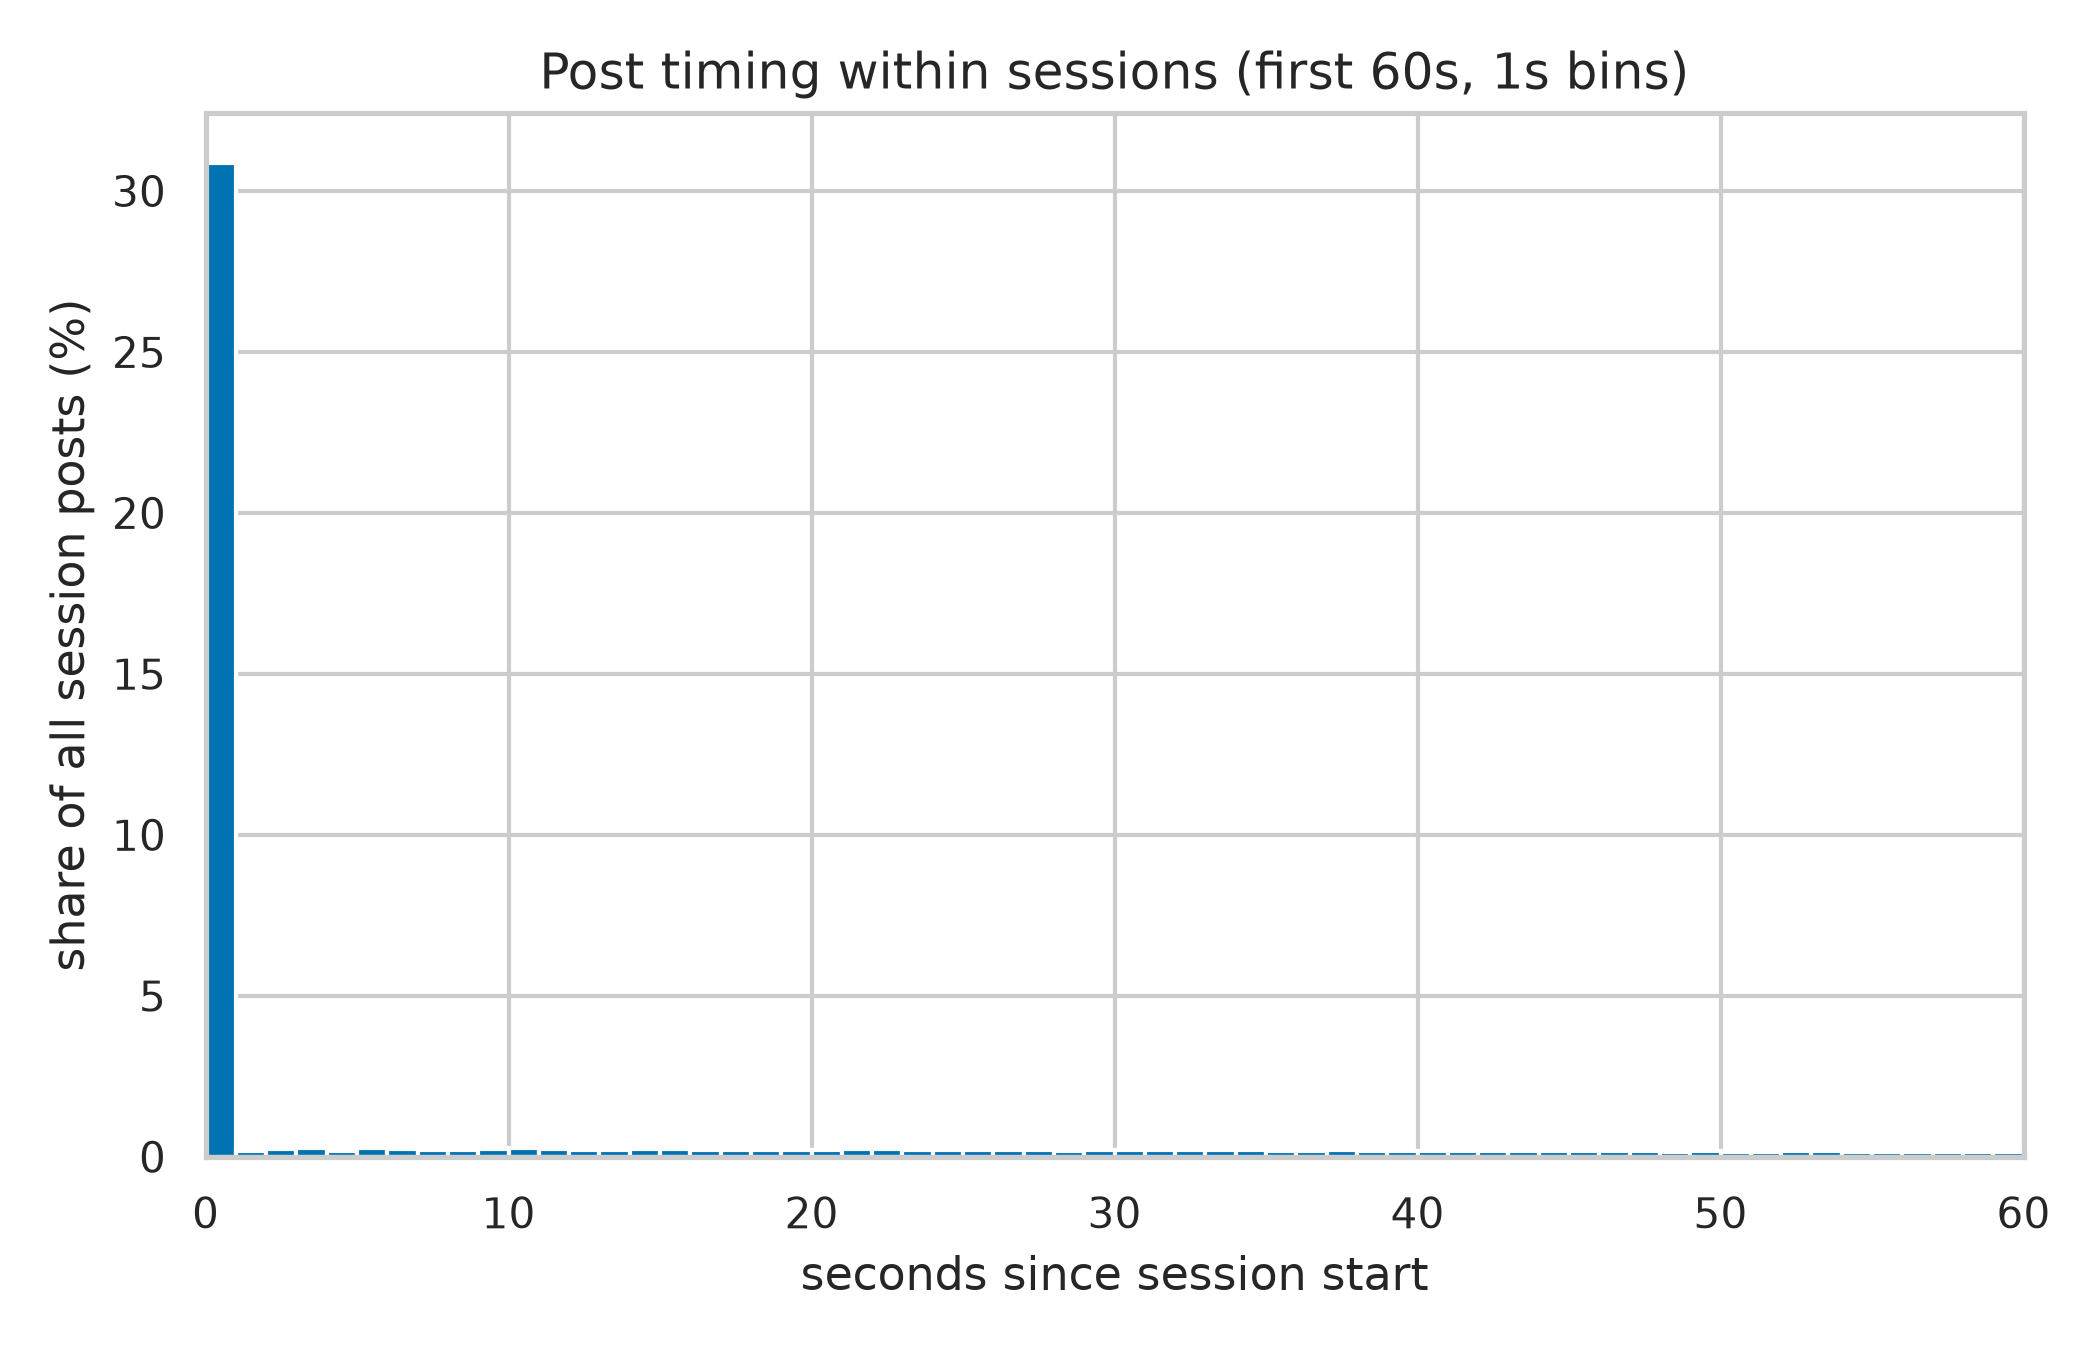
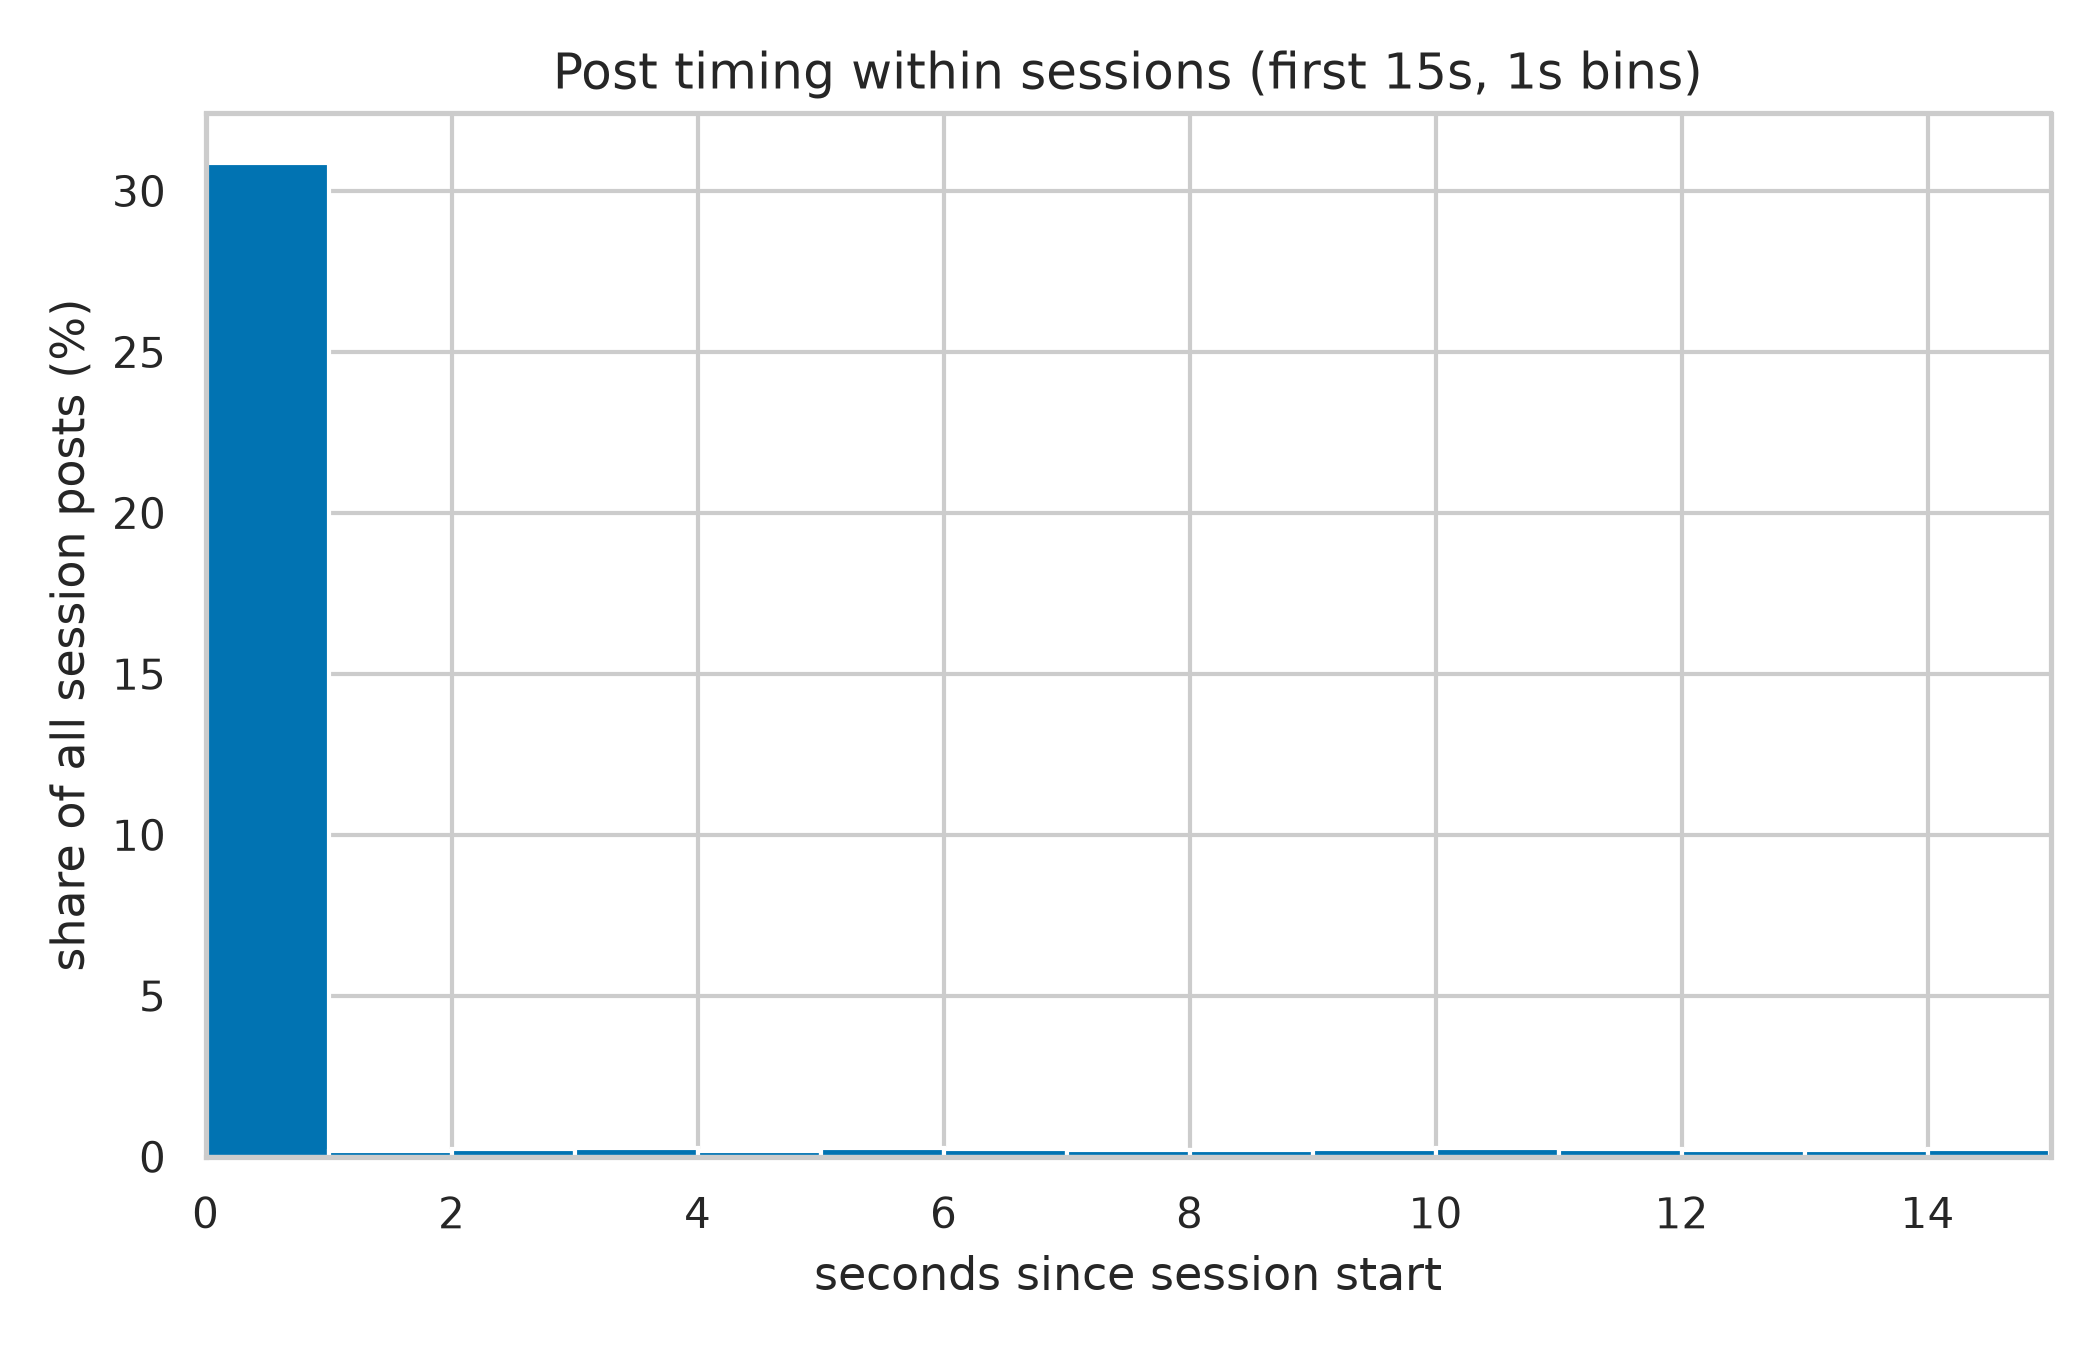
We have this in 15s in offset

diff --git a/sessions/inter-post-creation/4-first-post-offset/post_offsets.py b/sessions/inter-post-creation/4-first-post-offset/post_offsets.py
@@ -25,7 +25,7 @@ sys.path.insert(0, str(HERE.parents[1] / "table_creation"))
 from _core import get_connection, _execute, TBL_PREFIX
 
 BATCH_DIDS = 2000
-MAX_S = 60
+MAX_S = 15
 
 sns.set_theme(style="whitegrid")
 plt.rcParams.update({
@@ -84,7 +84,7 @@ def main():
         "mean": off.mean(),
         "p90": pct[90],
         "p99": pct[99],
-        "pct_within_60s": 100 * (off <= MAX_S).mean(),
+        f"pct_within_{MAX_S}s": 100 * (off <= MAX_S).mean(),
     }])
     out_tsv = HERE / "post_offsets_stats.tsv"
     stats.round(2).to_csv(out_tsv, sep="\t", index=False)
